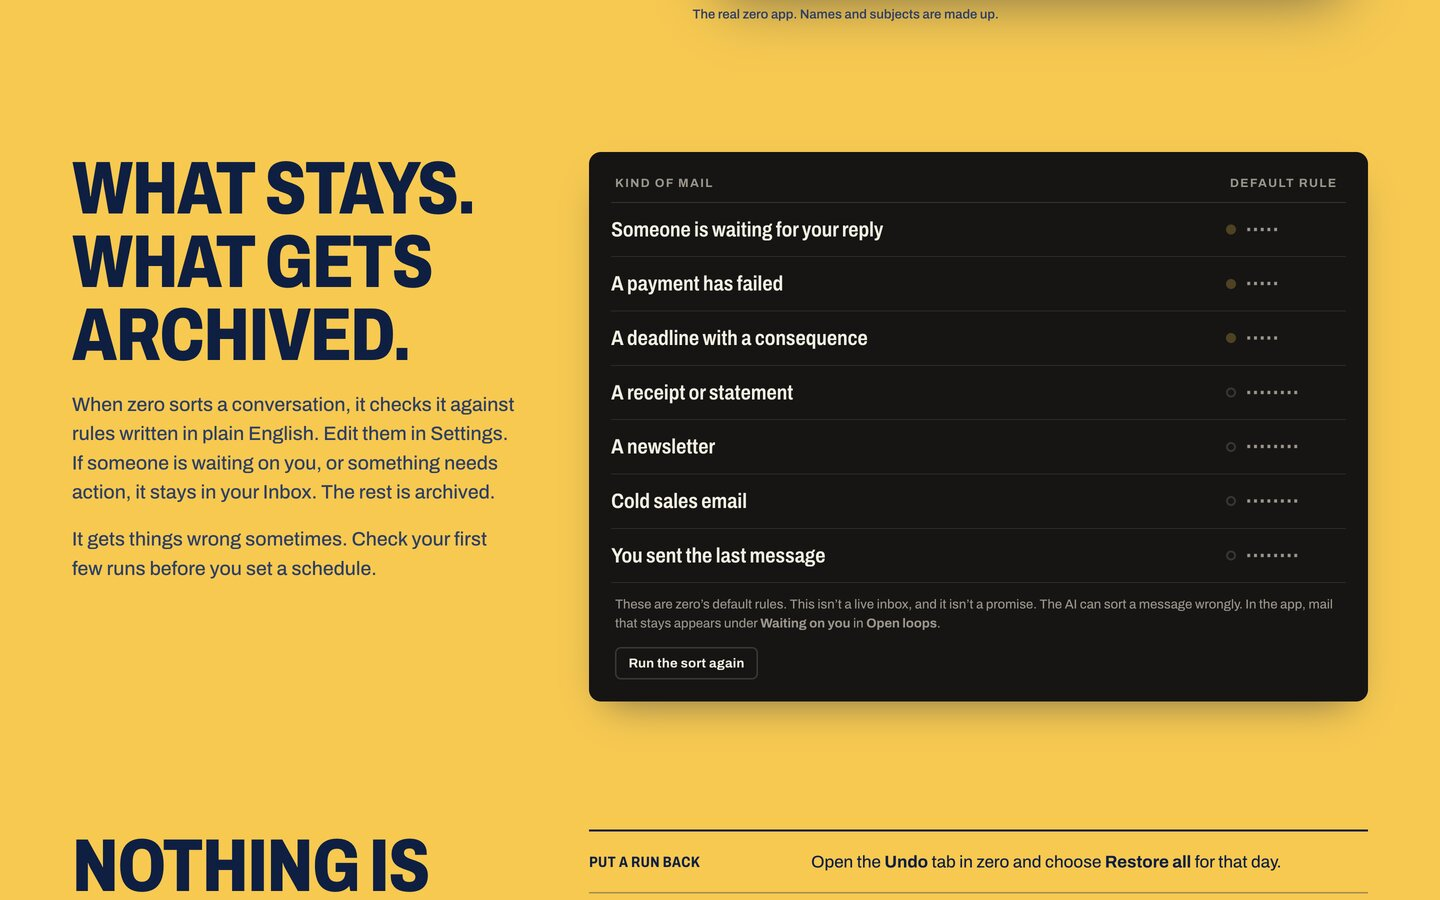
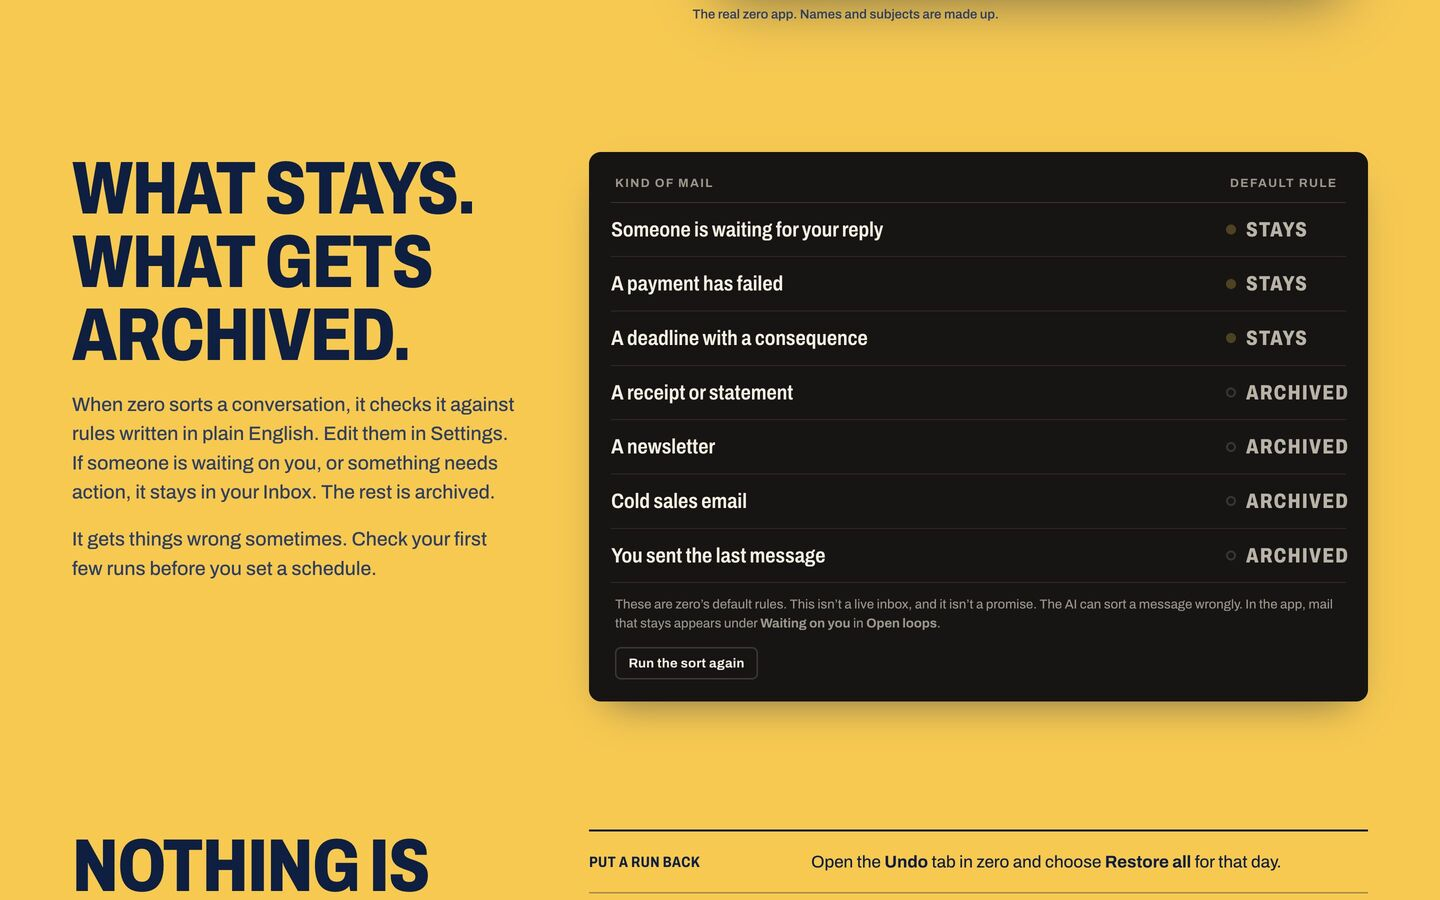
Motion direction: legible verdicts and instant reduced-motion swap per review

diff --git a/missions/website-motion/slices/01-motion-direction/proof/prototype/motion.js b/missions/website-motion/slices/01-motion-direction/proof/prototype/motion.js
@@ -175,29 +175,26 @@
     const TRAVEL = 520;
     const SETTLE = 620;
     const DURATION = STAGGER * (rows.length - 1) + TRAVEL + SETTLE;
-    const scramble = 'ABCDEHIKNORSTVY';
-
     function setStatus(i, t) {
       const r = rows[i];
       const local = t - i * STAGGER - TRAVEL;
-      // DOM is only written when a row's visible state changes (at most ~6 writes per row
-      // per run), so style recalculation never runs on every frame.
-      let key;
-      if (local < 0) key = 'pending';
-      else if (local < 160) key = `s${Math.floor(local / 40)}`;
-      else key = 'final';
+      // The verdict word is never hidden or scrambled: it is the real word, dimmed until
+      // its ticket arrives, then it flaps once to full colour. DOM is written only on a
+      // state change (twice per row per run), never every frame.
+      const key = local < 0 ? 'pending' : 'final';
       if (r.key === key) return;
+      const arriving = r.key === 'pending' && key === 'final' && local < 200;
       r.key = key;
-      if (local < 0) {
+      if (key === 'pending') {
         r.status.dataset.pending = '';
-        r.word.dataset.scramble = '·'.repeat(r.final.length);
-      } else if (local < 160) {
-        const tick = Math.floor(local / 40);
-        delete r.status.dataset.pending;
-        r.word.dataset.scramble = [...r.final].map((c, k) => scramble[(c.charCodeAt(0) + tick * 7 + k * 3) % scramble.length]).join('');
+        r.word.classList.remove('flap');
       } else {
         delete r.status.dataset.pending;
-        delete r.word.dataset.scramble;
+        if (arriving) {
+          r.word.classList.remove('flap');
+          void r.word.offsetWidth; // restart the one-shot flap on replay
+          r.word.classList.add('flap');
+        }
       }
     }
 
@@ -383,9 +380,7 @@
       settledArchived = dir === 1;
       button.textContent = settledArchived ? 'Show a restore' : 'Show the archive again';
       if (reduced) {
-        wrap.classList.add('instant');
-        tl.seek(DURATION);
-        requestAnimationFrame(() => wrap.classList.remove('instant'));
+        tl.seek(DURATION); // instant state swap, no transition
       } else {
         tl.play(0);
       }

diff --git a/missions/website-motion/slices/01-motion-direction/proof/prototype/motion.css b/missions/website-motion/slices/01-motion-direction/proof/prototype/motion.css
@@ -23,19 +23,24 @@
   z-index: 1;
 }
 
+/* The verdict word is always the real, readable word. Before its ticket arrives it is
+   dimmed (still above 4.5:1 on the board); on arrival it flaps once into full colour. */
 .has-track .status-word {
-  position: relative;
+  display: inline-block;
+  transform-origin: 50% 60%;
+  transition: color .18s var(--ease-out);
 }
 
-.has-track .status-word[data-scramble] {
-  color: transparent;
+.has-track .status[data-pending] .status-word {
+  color: var(--pending-word, #b9b2a6);
 }
 
-.has-track .status-word[data-scramble]::after {
-  position: absolute;
-  inset: 0;
-  color: var(--glyph-dim);
-  content: attr(data-scramble);
+.has-track .status-word.flap {
+  animation: verdict-flap .22s steps(2, jump-none);
+}
+
+@keyframes verdict-flap {
+  from { transform: scaleY(.2); }
 }
 
 .has-track .status[data-pending] i {
@@ -108,13 +113,7 @@
   outline-color: var(--ink);
 }
 
-.rail-wrap.instant .rail-diagram {
-  animation: rail-swap .22s ease-out;
-}
-
-@keyframes rail-swap {
-  from { opacity: .35; }
-}
+/* Reduced motion: the rail swaps state instantly. No transition of any kind. */
 
 /* ---------- Install steps board like departures ---------- */
 .will-board .install-steps > li::before {

diff --git a/missions/website-motion/slices/01-motion-direction/proof/MOTION-BRIEF.md b/missions/website-motion/slices/01-motion-direction/proof/MOTION-BRIEF.md
@@ -20,11 +20,11 @@ Everything else stays still. No particles, no ambient loops, no scroll-jacking, 
 |---|---|
 | Job | Turn the static "Examples from zero's default rules" table into a witnessed decision: each rule is routed, and you see which ones stay. |
 | Trigger | Plays **once** when the board is 45% visible (IntersectionObserver). "Run the sort again" replays it. Hover does nothing (pointer effects rejected, §8). |
-| Choreography | Per row, staggered 170 ms: a ticket travels the row divider (520 ms, ease-out) to the verdict dot. The verdict word scrambles through 4 split-flap ticks (40 ms each), then lands. **Stays** rows keep a lit yellow track and a short bloom. **Archived** tickets drop 14 px and fade over 620 ms, and their labels dim. Total 2.16 s, then the board settles and the canvas stops drawing. |
-| Truth | The real verdict text never leaves the DOM. The scramble is a `data-scramble` overlay on `.status-word`, so screen readers and copy/paste get "Stays" or "Archived". The canvas is `aria-hidden`. The existing footnote ("This isn't a live inbox… The AI can sort a message wrongly") stays unchanged directly under the effect. |
+| Choreography | Per row, staggered 170 ms: a ticket travels the row divider (520 ms, ease-out) to the verdict dot. The verdict word is **always the real word and always legible**. Before its ticket arrives it shows dimmed (#b9b2a6, 8.7:1 on the board), and on arrival it flaps once (220 ms, two steps) to full colour. There is no scramble and no placeholder dots (corrected after main-lead's review in `be48c02`). **Stays** rows keep a lit yellow track and a short bloom. **Archived** tickets drop 14 px and fade over 620 ms, and their labels dim. Total 2.16 s, then the board settles and the canvas stops drawing. |
+| Truth | The real verdict text never leaves the DOM and is never visually replaced. Only its colour and one flap change, so readers, screen readers and copy/paste always get "Stays" or "Archived" (verified in the section 11 T1 check). The canvas is `aria-hidden`. The existing footnote ("This isn't a live inbox… The AI can sort a message wrongly") stays unchanged directly under the effect. |
 | Why Canvas and not CSS | The ticket has to travel between two measured DOM points (row start to verdict dot) on seven rows whose geometry changes with wrapping at every width. It carries a gradient trail and ends in either a bloom or a drop. In CSS that means seven extra positioned elements per row state, keyframes recomputed from JS on resize, and radial-gradient layers that repaint the table. One canvas behind the table draws all of it in 0.07 ms per frame (measured, §6), leaves the table DOM untouched, and can be seeked deterministically for review. |
 
-Frames (desktop 1440, Aside capture): `storyboard/d-sort-0.jpg` (unsorted: dots dim, verdicts pending) → `d-sort-700.jpg` (row 1 decided, row 2 scrambling "NYVRK", rows 3 to 5 tickets in flight) → `d-sort-1300.jpg` (Stays lit, archived tickets dropping, newsletter scrambling) → `d-sort-settled.jpg`.
+Frames (desktop 1440, Aside capture): `storyboard/d-sort-0.jpg` (unsorted: dots dim, verdicts pending) → `d-sort-700.jpg` (rows 1 and 2 decided in yellow, rows 3 to 7 still showing their real word dimmed, tickets in flight) → `d-sort-1300.jpg` (all three Stays lit, archived tickets dropping, every word legible) → `d-sort-settled.jpg`. These four were recaptured after the review.
 
 ## 3. Second Canvas: the recovery rails ("Nothing is deleted")
 
@@ -51,7 +51,7 @@ Explicitly **not** animated: the headings, the body copy, the app screenshot, th
 
 ## 5. Reduced motion and static fallback
 
-- **`prefers-reduced-motion: reduce`** (simulate with `?rm=1`): no sort track, so the table renders exactly as production with its final verdicts (`d-rm-sort.jpg`). There's no boarding either, so install steps are visible immediately. The hero is already static in production. The rails show the settled archive state, and the button still works but swaps the state instantly with a 220 ms opacity settle, keeping the explanation without the travel (`d-rm-undo.jpg`).
+- **`prefers-reduced-motion: reduce`** (simulate with `?rm=1`): no sort track, so the table renders exactly as production with its final verdicts (`d-rm-sort.jpg`). There's no boarding either, so install steps are visible immediately. The hero is already static in production. The rails show the settled archive state, and the button still works but swaps the state instantly with no transition (corrected after review; the section 11 T5 check found 0 running animations after the click), keeping the explanation without the travel (`d-rm-undo.jpg`).
 - **No Canvas or no JS** (simulate with `?nocanvas=1`): the canvases and rail block stay `hidden`, and the page is byte-for-byte the production reading order (`d-nocanvas-sort.jpg`, `d-nocanvas-undo.jpg`). The "Run the sort again" button is also `hidden` until the track initialises, so there are no dead controls.
 - All content is present in HTML before any script runs. Motion only adds on top.
 
@@ -69,15 +69,15 @@ Baseline: production https://zero.headless.com/, measured with Aside at 1440×90
 | LCP | not reported by Aside's buffered observer (null) |
 | Running `document.getAnimations()` after load | 0 |
 
-Prototype cost (Aside, local server, same Chrome, task `117558q29o`):
+Prototype cost (Aside, local server, same Chrome, first pass `117558q29o`, re-measured after the review changes as `8376244ni7`):
 
 | Metric | Measured | Budget for the build |
 |---|---|---|
-| Added bytes | +5.8 KB gzip JS (including prototype-only instruments), +1.6 KB gzip CSS; no new images, fonts or libraries | ≤ 10 KB gzip total |
-| Sort draw, synchronous bench (200 seeked frames) | **0.067 ms/frame** | ≤ 2 ms/frame |
-| Rail draw, same bench | **0.019 ms/frame** | ≤ 2 ms/frame |
-| Live playback, script time per rAF callback | mean 2.1 ms, max 19.9 ms (first frame, includes fonts and measure) | mean ≤ 4 ms |
-| Frames drawn when idle or settled | 0 (rAF only while playing) | 0 |
+| Added bytes | +5.7 KB gzip JS (5,720 B including prototype-only instruments; the scramble was removed), +1.7 KB gzip CSS (1,677 B); no new images, fonts or libraries | ≤ 10 KB gzip total |
+| Sort draw, synchronous bench | **0.067 ms/frame** (200 frames, first pass). **0.031 ms/frame** (300 frames, after review) | ≤ 2 ms/frame |
+| Rail draw, same bench | **0.019 ms/frame** (both passes) | ≤ 2 ms/frame |
+| Live playback, script time per rAF callback | First pass: mean 2.1 ms, max 19.9 ms. After review: 41 frames, mean 3.3 ms, max 66.9 ms, in a heavily throttled session (mean rAF gap 44 ms, max 167 ms). This figure mixes the first-frame measure and the font load with automation throttling. **It is not proven within budget on the max.** The build must re-measure it unthrottled, and the one-shot `.flap` reflow restart is the first suspect if the max stays high | mean ≤ 4 ms, max ≤ 16 ms |
+| Frames drawn when idle or settled | 0 (rAF only while playing). Re-checked after review: `stats().frames` was 255 before and after a 2 s idle wait | 0 |
 | CLS from motion | not measured on the prototype. The sort canvas is absolutely positioned inside the existing board, so it can't shift layout. The rail block and the replay button are unhidden by the deferred script, below the fold. The build should reserve their space in CSS so a slow script can't shift content | 0 |
 
 Caveat, stated plainly: Aside's Chrome was delivering only about 30 fps even with **nothing animating** (idle rAF on the prototype: mean 33 ms). A same-session idle sample on production returned no frames at all, so that session was throttled. Live frame pacing captured through Aside therefore reflects the automation browser, not the animation. The synchronous per-draw bench is the reliable number. The build slice should re-measure pacing on a real, unthrottled browser and a mid-tier Mac before release.
@@ -113,6 +113,30 @@ Also rejected: a pointer-reactive "departure board" background (ambient and dist
 ## 10. Method and limitations
 
 - All captures and measurements were made by design-lead through **Aside** against the prototype on `127.0.0.1:8741` and against production. No Playwright.
-- **Mobile is iframe width, not device emulation.** The 390 px frames come from a 390×844 iframe inside desktop Chrome (the `mobile.html` harness), with no mobile UA, touch or device DPR. The harness reported `scrollWidth 390 = clientWidth 390` (no horizontal overflow) for the sort, rail, install and reduced-motion states. Captured mobile frames: `m-hero.jpg`, `m-sort-700.jpg` (mid-sort: tickets in flight, "NYVRK" scramble, the verdict column wraps its header but not its rows), `m-sort-settled.jpg` and `m-rail-450.jpg` (mid-archive, with the rightmost tag inside the frame). Aside's screenshot command timed out repeatedly on the mobile install and reduced-motion states, so those two are **not** proven visually, only width-checked. The build slice's QA owns that proof on a real narrow viewport. The prototype's `?at=` jump had also run before the rail was unhidden. It was fixed before `m-rail-450.jpg` was recaptured. At the 760 px breakpoint the geometry is re-measured per row, and the same code path runs.
+- **Mobile is iframe width, not device emulation.** The 390 px frames come from a 390×844 iframe inside desktop Chrome (the `mobile.html` harness), with no mobile UA, touch or device DPR. The harness reported `scrollWidth 390 = clientWidth 390` (no horizontal overflow) for the sort, rail, install and reduced-motion states. Captured mobile frames: `m-hero.jpg`, `m-sort-settled.jpg` and `m-rail-450.jpg` (mid-archive, with the rightmost tag inside the frame). Aside's screenshot command timed out repeatedly on the mobile install and reduced-motion states, so those two are **not** proven visually, only width-checked. The mobile mid-sort frame showed the old scramble. It was removed after the review, and the recapture hung in Aside again, so mobile mid-sort is also **not** proven visually for the corrected verdicts. The build slice's QA owns that proof on a real narrow viewport. The prototype's `?at=` jump had also run before the rail was unhidden. It was fixed before `m-rail-450.jpg` was recaptured. At the 760 px breakpoint the geometry is re-measured per row, and the same code path runs.
 - Frames were seeked (`?seek=`), not screen-recorded, except `d-restore-live.jpg` (a real click) and `d-hero-flap-mid.jpg` / `d-install-boarding.jpg` (captured during live playback).
 - Fixed during review: the first capture pass scrolled with smooth-scroll, so the frames showed the hero (discarded). The resize redraw also turned t = 0 into "settled". Both were fixed before the frames listed here were recaptured. The row verdict DOM writes now happen only on state change, not every frame.
+
+## 11. Review response (main-lead review, `be48c02`)
+
+Changes made:
+
+- **Verdicts are always legible.** The scramble overlay is gone. Before a ticket arrives, the real word shows dimmed (`#b9b2a6`, 8.7:1 on `#161514`). On arrival it flaps once (`verdict-flap`, 220 ms, `steps(2)`) to its final colour. "Run the sort again" restarts the flap.
+- **Reduced motion rail toggle is instant.** It calls `seek(DURATION)` with no opacity settle.
+
+Functional checks through Aside (task `298480xhmn`, local prototype; every page reported zero console errors):
+
+| # | Check | Result |
+|---|---|---|
+| T1 | Mid-sort (`seek=sort:700`): the words in the DOM, their colours, and the accessibility tree | Seven real words ("Stays" ×3, "Archived" ×4). Decided rows are `rgb(255,199,44)` and pending rows `rgb(185,178,166)`. The accessibility tree exposes all seven words |
+| T2 | Real wheel scroll into view, then replay | The board plays on view. `sorted` is removed on replay (false at 300 ms) and set again after it finishes (true at 3 s) |
+| T3 | Idle after settle | `stats().frames` was 255 before and after 2 s, so nothing was drawn |
+| T4 | Keyboard to Copy before boarding plays | Two Tabs reached "Copy". The install step's opacity was 1, so keyboard users never land on hidden steps |
+| T5 | `?rm=1` rail toggle | 0 running animations right after the click, and no pending verdicts. The sort track stays hidden. `d-rm-undo.jpg` shows the swapped state ("Show the archive again", rails restored). The button text read in the same tick as the click was not captured |
+| T6 | `?nocanvas=1` | The track, rails and replay button are all `hidden`. The table words match production |
+| T7 | FAQ | 0 animations before the first `<summary>` click and 1 after. The disclosure motion runs only on demand |
+| T8 | Production comparison | The words and their order are identical to the prototype |
+
+Re-measured after the changes (task `8376244ni7`): see §6. The synchronous draw cost is still well inside budget. The live max is inconclusive under throttling and is flagged for the build.
+
+Recaptured: `d-sort-0`, `d-sort-700`, `d-sort-1300`, `d-sort-settled` and `d-rm-undo`. `m-sort-700` was removed (see §10).

diff --git a/missions/website-motion/slices/01-motion-direction/PROOF.md b/missions/website-motion/slices/01-motion-direction/PROOF.md
@@ -12,7 +12,7 @@ A concrete, runnable motion and Canvas direction ("The board sorts") for the liv
    - Runnable prototype: `proof/prototype/`. Serve that directory statically, for example `python3 -m http.server` from inside it. `assets` is a relative symlink to `landing/assets` so the prototype uses the real fonts and app image without duplicating 1.5 MB.
    - Desktop frames (Aside, 1440×900): `storyboard/d-sort-0/700/1300/settled.jpg`, `d-rail-0/450/900.jpg`, `d-restore-450.jpg`, `d-restore-live.jpg`, `d-hero-flap-mid.jpg`, `d-hero.jpg`, `d-install-boarding.jpg`, `d-install-settled.jpg`.
    - Reduced motion / no Canvas: `d-rm-sort.jpg`, `d-rm-undo.jpg`, `d-nocanvas-sort.jpg`, `d-nocanvas-undo.jpg`.
-   - Mobile (390 px iframe, not device emulation): `m-hero.jpg`, `m-sort-700.jpg`, `m-sort-settled.jpg`, `m-rail-450.jpg`.
+   - Mobile (390 px iframe, not device emulation): `m-hero.jpg`, `m-sort-settled.jpg`, `m-rail-450.jpg`. (`m-sort-700.jpg` was removed after review because it showed the retired scramble. The recapture hung in Aside.)
 2. **Written motion brief** covering purpose, triggers, timing, reduced-motion and static states, failure fallbacks and the measured baseline: `proof/MOTION-BRIEF.md` §§1 to 7. Owner approval: **pending**, with the questions listed in §9.
 
 ## Residue / caveats

diff --git a/missions/website-motion/slices/01-motion-direction/PROGRESS.md b/missions/website-motion/slices/01-motion-direction/PROGRESS.md
@@ -14,3 +14,4 @@
 ## Log
 
 - 2026-09-28 design-lead@zero: measured the production baseline, built the prototype, captured the desktop, reduced-motion and no-Canvas storyboard and a partial mobile set (Aside), and wrote the brief. Awaiting owner approval. No downstream dispatch, per `1c55bd1`.
+- 2026-09-28 design-lead@zero: responded to main-lead's review (`be48c02`). Verdicts are now always the real, legible word (dimmed, then a single flap), and the reduced-motion rail swap is now instant. Recaptured 5 desktop frames and removed the stale `m-sort-700`. Ran functional checks T1 to T8 and re-benched through Aside. The results are in brief §6 and §11. Owner decision is still pending.
